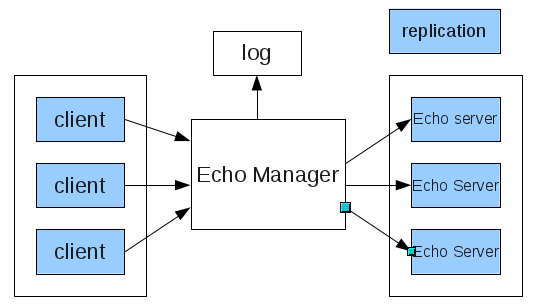
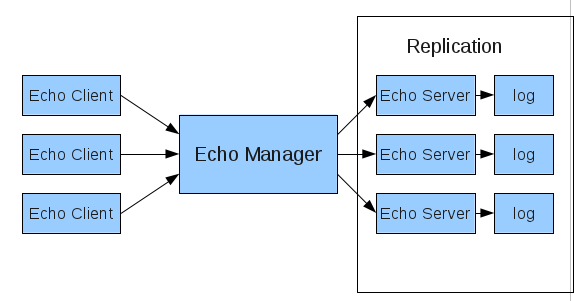
update the information for different tiers

diff --git a/doc/proposal.tex b/doc/proposal.tex
@@ -78,45 +78,57 @@ Dalong Cheng(dalongc)
 In 15440 project 3, we are going to implement a robust solution for
 echo server model. The echo client will send to echo manager some echo messages
 , upon receiving the echo message, the echo manager will log the message and 
-dispatch request to a backend echo server, the echo server will store the echo message, then send identical message back to client. The feautres will be described in following sections in more detail. 
+dispatch request to a backend echo server, the echo server will store the echo 
+message, then send identical message back to client. The feautres of the 
+system will be described in following sections in more detail. 
 
 The reason why we choose to implement a echo server is that
-we want to focus on design and implement a reliable and solid solution
-for distributed system rather than spending too much on application log. 
+we want to focus our energy on designning and implementing a reliable solution
+for distributed system rather than spending too much on application level logic. 
 Since most of the distributed
 application can be abstracted as echo server like model, which involving
-sending, receiving message and/or sharing state among multiple nodes, we 
+sending, receiving message and/or sharing state among multiple nodes. We 
 can easily extend this project into reliable application, such as 
 ticket reservation system, online game, etc.
 
 \begin{figure}[H] % Example image
-\center{\includegraphics[width=0.5\linewidth]{1.png}}
+\center{\includegraphics[width=0.65\linewidth]{1.png}}
 \caption{General Architecture}
 \label{fig:speciation}
 \end{figure}
 
 \section{Features}
-\subsection{Crash Recovery}
-We will use Write-Ahead Logging (WAL) method to enable echo manager recover form
-failure. The echo manager will record all the ecoh request it receivevd from echo 
-client. The log will contain some meta data for later recovery. When echo manager 
-crashes, firtsly, we will analysis the log, then recover the system from the crash. 
+\subsection{Record Log}
+We will use log to record all the request information on echo server side. Echo log
+entry will keep meta data like, where and when the request is received. The log can
+be extended to support features like redo or undo operation.
+
 \subsection{Job Partition}
 The echo manager will dispatch work for all the echo servers. We will use hash ring
 method to allocate work to each echo server. The system will also support dynamic
-joinning and leaving.
+joinning.
+
 \subsection{Data Replication}
-Need discussion
+The data replication is the most important feature we are going to implement for this 
+project. In second tier, we are going to implement the primary backup mechnism for the
+echo servers, the echo manager will act as failure detector for all the echo servers. 
+To make life easier, we will assume the echo manager never fail. In third tier, we will
+try our best to implement a robust paxos solution to replace the primary backup mechnism. 
 
 \section{General Design}
 The whole system will be developed with Go programming language on Linux 
-environment. We divide our work into 3 tiers, each tier will be based on previously work. The first tier will implement the most basic function and the third tier will contain more ``advanced'' function.
+environment. We divide our work into 3 tiers, each tier will be based on 
+previously work. The first tier will implement the most core and basic function 
+and the last tier will implement more ``advanced'' function and be able to 
+deal with more complicate situation.
 
 \subsection{First Tier}
 The first tier will have one echo client, echo manager and echo server. The
-echo manager will support crash recovery by using WAL method.  
+echo server will record all the request information into log file. This is the
+easiest part to implement.
+
 \begin{figure}[H]
-\center{\includegraphics[width=0.5\linewidth]{2.png}}
+\center{\includegraphics[width=0.6\linewidth]{2.png}}
 \caption{First Tier}
 \label{fig:speciation}
 \end{figure}
@@ -125,20 +137,25 @@ echo manager will support crash recovery by using WAL method.
 The second tier will support multiple echo clients and multiple echo servers. 
 We will add feature to enable echo manager to uniformly dispatch the work 
 to all the echo server. The echo manager will also need to response appropriately 
-to echo server leave and join.
+to echo server join. An important feature added to this tier is primary backup mechnism.
+The echo manager will act as central server to detect failure and manage replication
+among the echo servers.
+
 \begin{figure}[H]
-\center{\includegraphics[width=0.5\linewidth]{3.png}}
+\center{\includegraphics[width=0.6\linewidth]{3.png}}
 \caption{Second Tier}
 \label{fig:speciation}
 \end{figure}
 
 \subsection{Third Tier}
 Based on the previous tiers of work, the third tier will further support 
-replication among all the echo server. 
+replication by replacing the primary backup with a more sophiscated paxos protocal. 
+we will try our best to implement a simple paxos application with a lot of testcases 
+to ensure its correctness 
 
 \subsection{Component API}
-Need discussion here
-
+The API maybe change during development, we just list some basic function for each 
+component \\ \\ 
 Echo Client
 \begin{itemize}
   \item \texttt{send - send echo message}  
@@ -146,11 +163,11 @@ Echo Client
 \end{itemize}
 Echo Manager
 \begin{itemize}
-  \item \texttt{join - set track for the player to play}  
+  \item \texttt{join - invoked as RPC by echo server which join the system}
 \end{itemize}
 Echo Server
 \begin{itemize}
-  \item \texttt{position - indicate conductor to set to given position}
+  \item \texttt{position - }
 \end{itemize}
 
 \section{Test Plan}
@@ -164,12 +181,16 @@ cover each function in every component, to garantee it generate expected
 result, given expceted input.
 
 \subsection{Integration Test}
-The integration test is to test all the components as whole. Fail recovery,
-dynamic node join or leave and replication will be the key test point.
+The integration test is to test all the components as whole system. Replication,
+dynamic node join will be the key test point. We will explicitly kill echo server
+and monitor the whole system status information to make sure everything goes well.
 
 \subsection{Stress Test}
 In the stress test, we will create as many echo client as possible to test
-the limit of the whole system.
+the limit of the whole system. During testing, we will create different number 
+of echo client and server. The echo client will constantly sending random 
+generated message, and we will also random kill ``some'' given number of echo
+server.
 
 \section{Timeline}
 \begin{figure}[H]
@@ -180,7 +201,8 @@ the limit of the whole system.
 
 \section{Evalutation}
 Our system should support many echo clients working simultenously and   
-making progress. There are several point to evaluate.
+making progress. There are several point to evaluate. We will develop testcases
+for each of these points.
 \begin{enumerate}
   \item Echo manager will record all the request from client, it 
     should be able to reover from crashing, upon recovery
